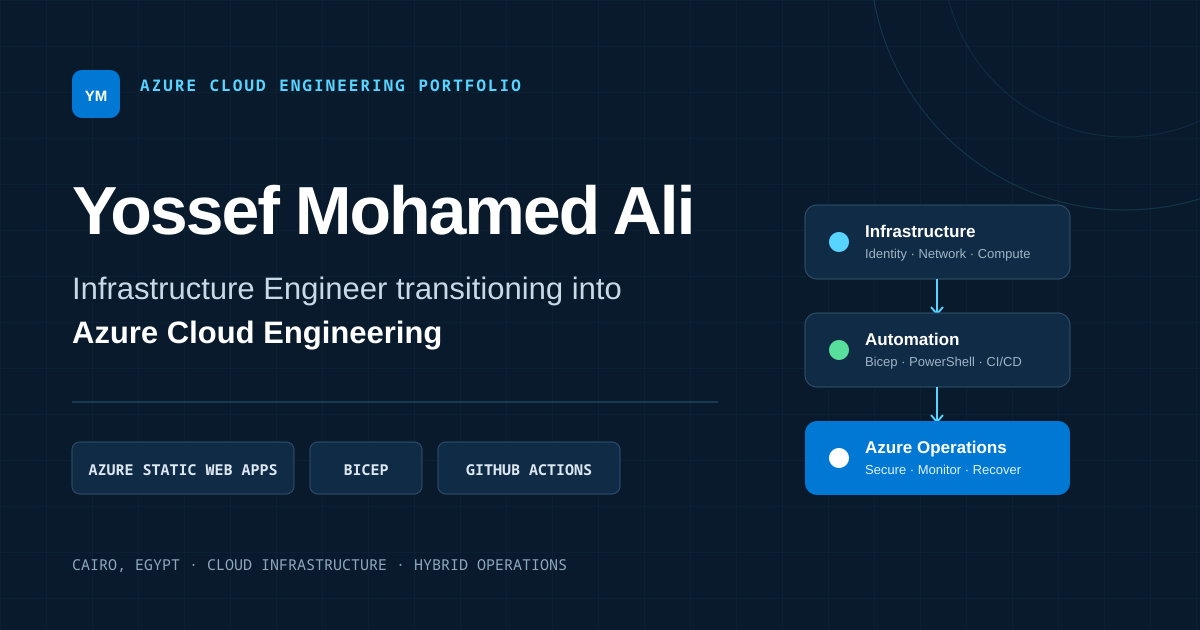
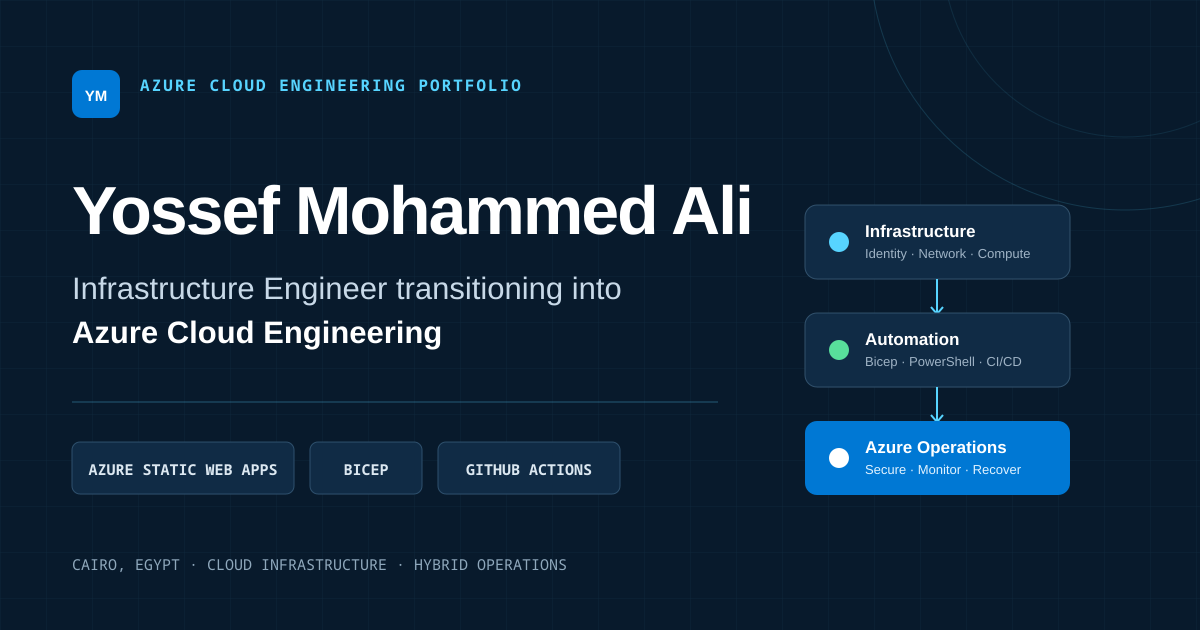
Correct passport name spelling

Changed region(s): [[0.4317, 0.2714, 0.6475, 0.3921]]

diff --git a/index.html b/index.html
@@ -5,7 +5,7 @@
   <meta name="viewport" content="width=device-width, initial-scale=1">
   <meta name="description" content="Infrastructure engineer transitioning into Azure Cloud Engineering, with hands-on Windows Server, Active Directory, networking, virtualization, and Azure lab work.">
   <meta name="robots" content="index, follow, max-image-preview:large">
-  <title>Yossef Mohamed Ali | IT Infrastructure → Azure Cloud Engineer</title>
+  <title>Yossef Mohammed Ali | IT Infrastructure → Azure Cloud Engineer</title>
   <link rel="canonical" href="https://gentle-smoke-06d712d0f.7.azurestaticapps.net/">
   <link rel="icon" href="assets/favicon.svg" type="image/svg+xml">
   <link rel="apple-touch-icon" href="assets/apple-touch-icon.png">
@@ -14,21 +14,21 @@
 
   <meta property="og:type" content="website">
   <meta property="og:locale" content="en_US">
-  <meta property="og:site_name" content="Yossef Mohamed Ali — Cloud Engineering Portfolio">
-  <meta property="og:title" content="Yossef Mohamed Ali | IT Infrastructure → Azure Cloud Engineer">
+  <meta property="og:site_name" content="Yossef Mohammed Ali — Cloud Engineering Portfolio">
+  <meta property="og:title" content="Yossef Mohammed Ali | IT Infrastructure → Azure Cloud Engineer">
   <meta property="og:description" content="Infrastructure operations experience applied to Azure administration, cloud networking, identity, security, and automation.">
   <meta property="og:url" content="https://gentle-smoke-06d712d0f.7.azurestaticapps.net/">
   <meta property="og:image" content="https://gentle-smoke-06d712d0f.7.azurestaticapps.net/assets/og-cover.png">
   <meta property="og:image:type" content="image/png">
   <meta property="og:image:width" content="1200">
   <meta property="og:image:height" content="630">
-  <meta property="og:image:alt" content="Yossef Mohamed Ali, Azure Cloud and Infrastructure Engineering portfolio">
+  <meta property="og:image:alt" content="Yossef Mohammed Ali, Azure Cloud and Infrastructure Engineering portfolio">
 
   <meta name="twitter:card" content="summary_large_image">
-  <meta name="twitter:title" content="Yossef Mohamed Ali | IT Infrastructure → Azure Cloud Engineer">
+  <meta name="twitter:title" content="Yossef Mohammed Ali | IT Infrastructure → Azure Cloud Engineer">
   <meta name="twitter:description" content="Infrastructure operations experience applied to Azure administration, cloud networking, identity, security, and automation.">
   <meta name="twitter:image" content="https://gentle-smoke-06d712d0f.7.azurestaticapps.net/assets/og-cover.png">
-  <meta name="twitter:image:alt" content="Yossef Mohamed Ali, Azure Cloud and Infrastructure Engineering portfolio">
+  <meta name="twitter:image:alt" content="Yossef Mohammed Ali, Azure Cloud and Infrastructure Engineering portfolio">
 
   <script type="application/ld+json">
   {
@@ -37,7 +37,7 @@
       {
         "@type": "Person",
         "@id": "https://gentle-smoke-06d712d0f.7.azurestaticapps.net/#person",
-        "name": "Yossef Mohamed Ali",
+        "name": "Yossef Mohammed Ali",
         "url": "https://gentle-smoke-06d712d0f.7.azurestaticapps.net/",
         "jobTitle": "IT Infrastructure Analyst",
         "worksFor": {
@@ -70,7 +70,7 @@
         "@type": "WebSite",
         "@id": "https://gentle-smoke-06d712d0f.7.azurestaticapps.net/#website",
         "url": "https://gentle-smoke-06d712d0f.7.azurestaticapps.net/",
-        "name": "Yossef Mohamed Ali — Cloud Engineering Portfolio",
+        "name": "Yossef Mohammed Ali — Cloud Engineering Portfolio",
         "description": "Evidence-backed Azure cloud and infrastructure engineering portfolio.",
         "inLanguage": "en",
         "about": {
@@ -91,7 +91,7 @@
       <a class="brand" href="#top">
         <span class="brand-mark" aria-hidden="true">YM</span>
         <span class="brand-copy">
-          <strong>Yossef Mohamed Ali</strong>
+          <strong>Yossef Mohammed Ali</strong>
           <span>Cloud &amp; Infrastructure</span>
         </span>
       </a>
@@ -117,7 +117,7 @@
       <div class="container hero-grid">
         <div class="hero-copy">
           <p class="eyebrow eyebrow-light">Azure cloud engineering portfolio</p>
-          <h1 id="hero-title">Yossef Mohamed Ali</h1>
+          <h1 id="hero-title">Yossef Mohammed Ali</h1>
           <p class="hero-role">Infrastructure Engineer transitioning into <strong>Azure Cloud Engineering</strong></p>
           <p class="hero-summary">
             I operate factory and enterprise infrastructure across servers, identity, L2/L3 networking,
@@ -721,7 +721,7 @@
 
   <footer class="site-footer">
     <div class="container footer-inner">
-      <p>© <span id="current-year">2026</span> Yossef Mohamed Ali</p>
+      <p>© <span id="current-year">2026</span> Yossef Mohammed Ali</p>
       <p>Built with semantic HTML and CSS · Deployed on Azure Static Web Apps</p>
     </div>
   </footer>

diff --git a/404.html b/404.html
@@ -4,7 +4,7 @@
   <meta charset="utf-8">
   <meta name="viewport" content="width=device-width, initial-scale=1">
   <meta name="robots" content="noindex, follow">
-  <title>Page Not Found | Yossef Mohamed Ali</title>
+  <title>Page Not Found | Yossef Mohammed Ali</title>
   <link rel="icon" href="/assets/favicon.svg" type="image/svg+xml">
   <link rel="stylesheet" href="/assets/site.css">
 </head>
@@ -15,7 +15,7 @@
       <a class="brand" href="/">
         <span class="brand-mark" aria-hidden="true">YM</span>
         <span class="brand-copy">
-          <strong>Yossef Mohamed Ali</strong>
+          <strong>Yossef Mohammed Ali</strong>
           <span>Cloud &amp; Infrastructure</span>
         </span>
       </a>

diff --git a/README.md b/README.md
@@ -1,4 +1,4 @@
-# Yossef Mohamed Ali — Azure Cloud Engineering Portfolio
+# Yossef Mohammed Ali — Azure Cloud Engineering Portfolio
 
 An evidence-backed portfolio for an infrastructure professional transitioning into Azure Cloud Engineering. The site presents professional infrastructure experience, completed training, inspectable lab work, and a deployed Azure reference project without claiming unsupported production cloud experience.
 
